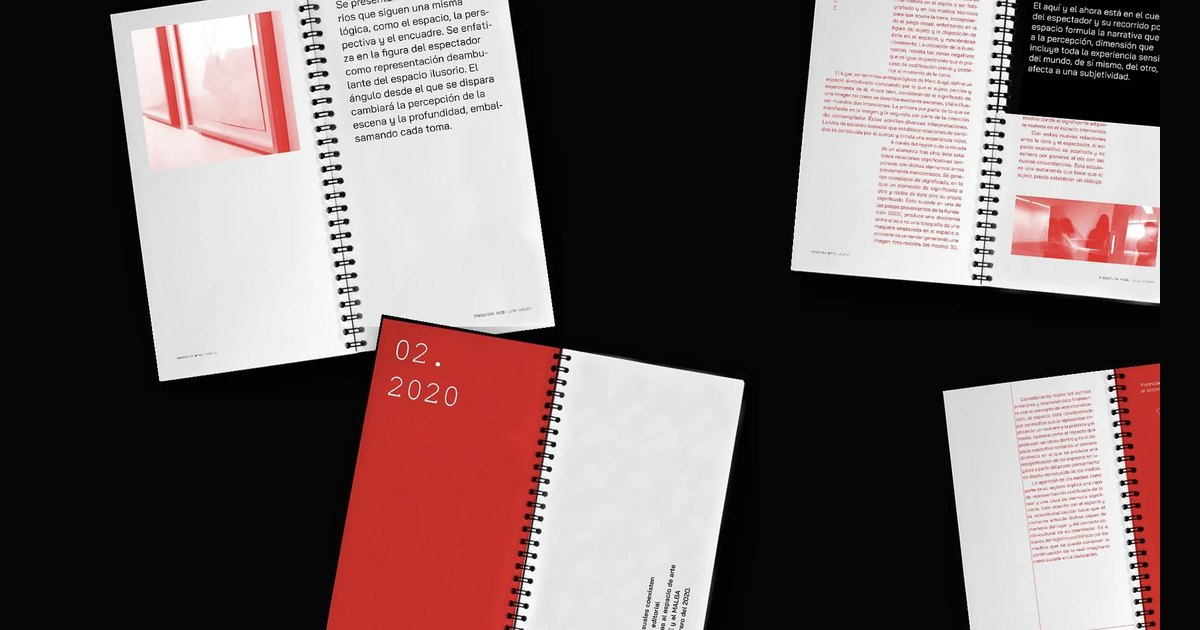
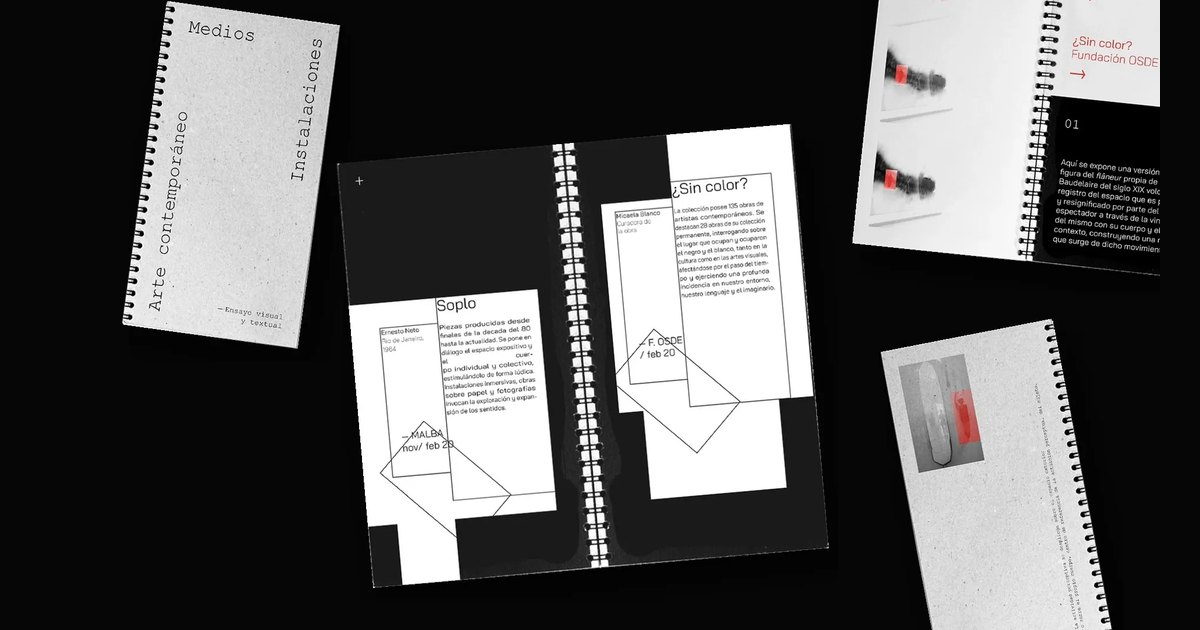
Selypan portada, Oficina Inglesa ficha, Ensayo slides 2-3 y portada, Faré 2021
Claude-Session: https://claude.ai/code/session_01XWbityn77Q1CNZPKqtjv3s

diff --git a/proyectos/oficina-inglesa.html b/proyectos/oficina-inglesa.html
@@ -5,9 +5,9 @@
 <base href="/">
 <meta name="viewport" content="width=device-width, initial-scale=1">
 <title>Oficina Inglesa — Rebranding | Noelia Orona</title>
-<meta name="description" content="Taller de muebles hechos a mano en Londres, con una larga trayectoria. Actualizar la marca conservando el escudo y los dos leones que sus clientes ya…">
+<meta name="description" content="Marca reconocida de muebles hechos a mano en Londres, con una larga trayectoria. Actualizar la marca conservando el escudo y los dos leones que sus clientes…">
 <meta property="og:title" content="Oficina Inglesa — Rebranding | Noelia Orona">
-<meta property="og:description" content="Taller de muebles hechos a mano en Londres, con una larga trayectoria. Actualizar la marca conservando el escudo y los dos leones que sus clientes ya…">
+<meta property="og:description" content="Marca reconocida de muebles hechos a mano en Londres, con una larga trayectoria. Actualizar la marca conservando el escudo y los dos leones que sus clientes…">
 <meta property="og:type" content="website">
 <meta property="og:site_name" content="Noelia Orona">
 <meta property="og:locale" content="es_AR">
@@ -19,7 +19,7 @@
 <meta property="og:image:alt" content="Oficina Inglesa — Rebranding | Noelia Orona">
 <meta name="twitter:image" content="https://noeliaorona.com/og/oficina-inglesa.jpg">
 <meta name="twitter:card" content="summary_large_image">
-<script type="application/ld+json">{"@context":"https://schema.org","@graph":[{"@type":"WebSite","@id":"https://noeliaorona.com/#web","url":"https://noeliaorona.com/","name":"Noelia Orona","inLanguage":["es","en"],"publisher":{"@id":"https://noeliaorona.com/#noelia"}},{"@type":"Person","@id":"https://noeliaorona.com/#noelia","name":"Noelia Orona","url":"https://noeliaorona.com/","jobTitle":"Diseñadora","description":"Diseñadora con base en Argentina. Identidad visual, diseño editorial, packaging y web.","image":"https://noeliaorona.com/assets/cc865a6dbeadcb29cce391f507c17738.webp","email":"mailto:nnorona15@gmail.com","address":{"@type":"PostalAddress","addressLocality":"Buenos Aires","addressCountry":"AR"},"sameAs":["https://www.linkedin.com/in/noelia-orona-093a19181/","https://www.behance.net/noeliaorona"]},{"@type":"CreativeWork","@id":"https://noeliaorona.com/proyectos/oficina-inglesa#work","url":"https://noeliaorona.com/proyectos/oficina-inglesa","name":"Oficina Inglesa","headline":"Oficina Inglesa","description":"Actualizar la marca conservando el escudo y los dos leones que sus clientes ya reconocen. El proceso fue en cuatro pasos: auditar, conservar, redibujar y simplificar. Se redibujaron la corona y los leones, el nombre pasó de tres líneas a una y la caligrafía dio lugar a una tipografía más limpia. Se sumó un patrón a partir de una pata torneada y una paleta bordó y dorado, aplicados en papelería, certificados, placas y web.","abstract":"Taller de muebles hechos a mano en Londres, con una larga trayectoria","genre":"Mobiliario artesanal","keywords":"Rebranding","inLanguage":"es","image":"https://noeliaorona.com/og/oficina-inglesa.jpg","creator":{"@id":"https://noeliaorona.com/#noelia"},"author":{"@id":"https://noeliaorona.com/#noelia"},"isPartOf":{"@id":"https://noeliaorona.com/proyectos#page"},"workTranslation":{"@type":"CreativeWork","inLanguage":"en","name":"Oficina Inglesa","description":"Updating the brand while keeping the shield and the two lions its clients already recognise. The process had four steps: audit, keep, redraw and simplify. The crown and lions were redrawn, the name went from three lines to one, and the script gave way to a cleaner typeface. We added a pattern based on a turned furniture leg and a burgundy and gold palette, applied to stationery, certificates, plaques and the website."},"dateCreated":"2021"},{"@type":"BreadcrumbList","itemListElement":[{"@type":"ListItem","position":1,"name":"Noelia Orona","item":"https://noeliaorona.com/"},{"@type":"ListItem","position":2,"name":"Proyectos","item":"https://noeliaorona.com/proyectos"},{"@type":"ListItem","position":3,"name":"Oficina Inglesa","item":"https://noeliaorona.com/proyectos/oficina-inglesa"}]}]}</script>
+<script type="application/ld+json">{"@context":"https://schema.org","@graph":[{"@type":"WebSite","@id":"https://noeliaorona.com/#web","url":"https://noeliaorona.com/","name":"Noelia Orona","inLanguage":["es","en"],"publisher":{"@id":"https://noeliaorona.com/#noelia"}},{"@type":"Person","@id":"https://noeliaorona.com/#noelia","name":"Noelia Orona","url":"https://noeliaorona.com/","jobTitle":"Diseñadora","description":"Diseñadora con base en Argentina. Identidad visual, diseño editorial, packaging y web.","image":"https://noeliaorona.com/assets/cc865a6dbeadcb29cce391f507c17738.webp","email":"mailto:nnorona15@gmail.com","address":{"@type":"PostalAddress","addressLocality":"Buenos Aires","addressCountry":"AR"},"sameAs":["https://www.linkedin.com/in/noelia-orona-093a19181/","https://www.behance.net/noeliaorona"]},{"@type":"CreativeWork","@id":"https://noeliaorona.com/proyectos/oficina-inglesa#work","url":"https://noeliaorona.com/proyectos/oficina-inglesa","name":"Oficina Inglesa","headline":"Oficina Inglesa","description":"Actualizar la marca conservando el escudo y los dos leones que sus clientes ya reconocen. El proceso fue en cuatro pasos: auditar, conservar, redibujar y simplificar. Se redibujaron la corona y los leones, el nombre pasó de tres líneas a una y la caligrafía dio lugar a una tipografía más limpia. Se sumó un patrón a partir de una pata torneada y una paleta bordó y dorado, aplicados en papelería, certificados, placas y web.","abstract":"Marca reconocida de muebles hechos a mano en Londres, con una larga trayectoria","genre":"Mobiliario artesanal","keywords":"Rebranding","inLanguage":"es","image":"https://noeliaorona.com/og/oficina-inglesa.jpg","creator":{"@id":"https://noeliaorona.com/#noelia"},"author":{"@id":"https://noeliaorona.com/#noelia"},"isPartOf":{"@id":"https://noeliaorona.com/proyectos#page"},"workTranslation":{"@type":"CreativeWork","inLanguage":"en","name":"Oficina Inglesa","description":"Updating the brand while keeping the shield and the two lions its clients already recognise. The process had four steps: audit, keep, redraw and simplify. The crown and lions were redrawn, the name went from three lines to one, and the script gave way to a cleaner typeface. We added a pattern based on a turned furniture leg and a burgundy and gold palette, applied to stationery, certificates, plaques and the website."},"dateCreated":"2021"},{"@type":"BreadcrumbList","itemListElement":[{"@type":"ListItem","position":1,"name":"Noelia Orona","item":"https://noeliaorona.com/"},{"@type":"ListItem","position":2,"name":"Proyectos","item":"https://noeliaorona.com/proyectos"},{"@type":"ListItem","position":3,"name":"Oficina Inglesa","item":"https://noeliaorona.com/proyectos/oficina-inglesa"}]}]}</script>
 <link rel="canonical" href="https://noeliaorona.com/proyectos/oficina-inglesa">
 <meta name="theme-color" content="#ffffff">
 <meta name="color-scheme" content="light">

diff --git a/logic.js b/logic.js
@@ -143,7 +143,7 @@ class Component extends DCLogic {
         year: '2026',
         info: { es: { client: 'Hotel boutique en Mazatlán, México', challenge: 'El hotel arrancaba de cero. Había que construir una marca propia, distinta a la de los resorts de la zona, que transmitiera un lujo tranquilo y cercano.', solution: 'Primero se definió la estrategia de marca. A partir de ahí se diseñó un símbolo que junta mar y tierra, una paleta de piedra y oliva y una tipografía fina. Después se aplicó a todo lo que toca el huésped: amenities, packaging, papelería, señalética, menús y web.' }, en: { client: 'A boutique hotel in Mazatlán, Mexico', challenge: 'The hotel was starting from scratch. It needed a brand of its own, distinct from the resorts in the area, conveying a quiet, warm kind of luxury.', solution: 'We started by defining the brand strategy. From there we designed a symbol that brings sea and land together, a stone and olive palette and a light typeface, and applied it to everything guests touch: amenities, packaging, stationery, signage, menus and the website.' } },
         images: [
-          'assets/a4628f1d0e9bf71a7fbefb4b6e24d220.webp',
+          'assets/f595cfed0f48e870e0a3f67d5b122d83.webp',
           'assets/5c3d695843c229afa5152d5f636bd044.webp',
           'assets/e2960cda418a0b294daa85c6e2042779.webp',
           'assets/57ccf7958567f97fcff70dec4a059a22.webp',
@@ -353,7 +353,7 @@ class Component extends DCLogic {
         title: 'Faré Mobiliario',
         industry: { es: 'Interiorismo', en: 'Interior Design' },
         categories: { es: 'Diseño editorial, Web', en: 'Editorial Design, Web' },
-        year: '2026',
+        year: '2021',
         info: { es: { client: 'Estudio de diseño de muebles e interiorismo', challenge: 'Mostrar la colección con el mismo cuidado que tiene cada mueble, en papel y en pantalla.', solution: 'Se diseñó una revista impresa para presentar las piezas y una landing que lleva esa misma experiencia a la web.' }, en: { client: 'A furniture design and interiors studio', challenge: 'Showing the collection with the same care that goes into each piece, both in print and on screen.', solution: 'We designed a printed magazine to present the pieces and a landing page that brings the same experience online.' } },
         images: [
           'assets/4b62aaadefa8ad0b9d44a9948bea1234.webp', 'assets/c46c63f21ecf6cf08209dce6e3f81e4f.webp', 'assets/248e75c81beb3bc783fba2f8796b95ca.webp',
@@ -365,7 +365,7 @@ class Component extends DCLogic {
         industry: { es: 'Mobiliario artesanal', en: 'Handmade Furniture' },
         categories: { es: 'Rebranding', en: 'Rebranding' },
         year: '2021',
-        info: { es: { client: 'Taller de muebles hechos a mano en Londres, con una larga trayectoria', challenge: 'Actualizar la marca conservando el escudo y los dos leones que sus clientes ya reconocen.', solution: 'El proceso fue en cuatro pasos: auditar, conservar, redibujar y simplificar. Se redibujaron la corona y los leones, el nombre pasó de tres líneas a una y la caligrafía dio lugar a una tipografía más limpia. Se sumó un patrón a partir de una pata torneada y una paleta bordó y dorado, aplicados en papelería, certificados, placas y web.' }, en: { client: 'A handmade furniture workshop in London with a long history', challenge: 'Updating the brand while keeping the shield and the two lions its clients already recognise.', solution: 'The process had four steps: audit, keep, redraw and simplify. The crown and lions were redrawn, the name went from three lines to one, and the script gave way to a cleaner typeface. We added a pattern based on a turned furniture leg and a burgundy and gold palette, applied to stationery, certificates, plaques and the website.' } },
+        info: { es: { client: 'Marca reconocida de muebles hechos a mano en Londres, con una larga trayectoria', challenge: 'Actualizar la marca conservando el escudo y los dos leones que sus clientes ya reconocen.', solution: 'El proceso fue en cuatro pasos: auditar, conservar, redibujar y simplificar. Se redibujaron la corona y los leones, el nombre pasó de tres líneas a una y la caligrafía dio lugar a una tipografía más limpia. Se sumó un patrón a partir de una pata torneada y una paleta bordó y dorado, aplicados en papelería, certificados, placas y web.' }, en: { client: 'A renowned handmade furniture brand in London with a long history', challenge: 'Updating the brand while keeping the shield and the two lions its clients already recognise.', solution: 'The process had four steps: audit, keep, redraw and simplify. The crown and lions were redrawn, the name went from three lines to one, and the script gave way to a cleaner typeface. We added a pattern based on a turned furniture leg and a burgundy and gold palette, applied to stationery, certificates, plaques and the website.' } },
         images: [
           'assets/864903cee1e5df5bc74a7cf42b3c7740.webp',
           'assets/a77c7492aca20f2acb4a7e22cc973879.webp',
@@ -442,13 +442,13 @@ class Component extends DCLogic {
         year: '2020',
         info: { es: { client: 'Proyecto curatorial de arte contemporáneo', challenge: 'Llevar a un objeto impreso una reflexión sobre la mirada y la perspectiva.', solution: 'Se diseñó un cuaderno anillado para recorrer como un paseo, alternando imagen y texto para que la lectura también forme parte de la obra.' }, en: { client: 'A contemporary art curatorial project', challenge: 'Turning a reflection on looking and perspective into a printed object.', solution: 'We designed a ring-bound notebook meant to be browsed like a walk, alternating image and text so that reading becomes part of the work.' } },
         images: [
-          'assets/01d21df2080268368d9db990179e9e9e.webp',
-          'assets/3ea81644d38f8ea67169ee4396be1956.webp',
-          'assets/23c9234b6ad12a22ca3934ab8f36a37c.webp',
+          'assets/c952bf03cfbf297b81a084f73335716a.webp',
+          'assets/69ae4e63bab3c85d3db0336f39ed8d4a.webp',
+          'assets/68ff690bd505f0e7945b13f12a1d211c.webp',
           'assets/19179de8ba907c3bf9a98d01d0257a40.webp',
           'assets/ab133057b959e0aff84c9e518fd5d949.webp',
           'assets/91acd97c3deedcc0dbf5e9e529f40b4c.webp',
-          'assets/c952bf03cfbf297b81a084f73335716a.webp'
+          'assets/01d21df2080268368d9db990179e9e9e.webp'
         ]
       },
       {

diff --git a/src/page.html b/src/page.html
@@ -446,7 +446,7 @@ class Component extends DCLogic {
         year: '2026',
         info: { es: { client: 'Hotel boutique en Mazatlán, México', challenge: 'El hotel arrancaba de cero. Había que construir una marca propia, distinta a la de los resorts de la zona, que transmitiera un lujo tranquilo y cercano.', solution: 'Primero se definió la estrategia de marca. A partir de ahí se diseñó un símbolo que junta mar y tierra, una paleta de piedra y oliva y una tipografía fina. Después se aplicó a todo lo que toca el huésped: amenities, packaging, papelería, señalética, menús y web.' }, en: { client: 'A boutique hotel in Mazatlán, Mexico', challenge: 'The hotel was starting from scratch. It needed a brand of its own, distinct from the resorts in the area, conveying a quiet, warm kind of luxury.', solution: 'We started by defining the brand strategy. From there we designed a symbol that brings sea and land together, a stone and olive palette and a light typeface, and applied it to everything guests touch: amenities, packaging, stationery, signage, menus and the website.' } },
         images: [
-          'assets/a4628f1d0e9bf71a7fbefb4b6e24d220.webp',
+          'assets/f595cfed0f48e870e0a3f67d5b122d83.webp',
           'assets/5c3d695843c229afa5152d5f636bd044.webp',
           'assets/e2960cda418a0b294daa85c6e2042779.webp',
           'assets/57ccf7958567f97fcff70dec4a059a22.webp',
@@ -656,7 +656,7 @@ class Component extends DCLogic {
         title: 'Faré Mobiliario',
         industry: { es: 'Interiorismo', en: 'Interior Design' },
         categories: { es: 'Diseño editorial, Web', en: 'Editorial Design, Web' },
-        year: '2026',
+        year: '2021',
         info: { es: { client: 'Estudio de diseño de muebles e interiorismo', challenge: 'Mostrar la colección con el mismo cuidado que tiene cada mueble, en papel y en pantalla.', solution: 'Se diseñó una revista impresa para presentar las piezas y una landing que lleva esa misma experiencia a la web.' }, en: { client: 'A furniture design and interiors studio', challenge: 'Showing the collection with the same care that goes into each piece, both in print and on screen.', solution: 'We designed a printed magazine to present the pieces and a landing page that brings the same experience online.' } },
         images: [
           'assets/4b62aaadefa8ad0b9d44a9948bea1234.webp', 'assets/c46c63f21ecf6cf08209dce6e3f81e4f.webp', 'assets/248e75c81beb3bc783fba2f8796b95ca.webp',
@@ -668,7 +668,7 @@ class Component extends DCLogic {
         industry: { es: 'Mobiliario artesanal', en: 'Handmade Furniture' },
         categories: { es: 'Rebranding', en: 'Rebranding' },
         year: '2021',
-        info: { es: { client: 'Taller de muebles hechos a mano en Londres, con una larga trayectoria', challenge: 'Actualizar la marca conservando el escudo y los dos leones que sus clientes ya reconocen.', solution: 'El proceso fue en cuatro pasos: auditar, conservar, redibujar y simplificar. Se redibujaron la corona y los leones, el nombre pasó de tres líneas a una y la caligrafía dio lugar a una tipografía más limpia. Se sumó un patrón a partir de una pata torneada y una paleta bordó y dorado, aplicados en papelería, certificados, placas y web.' }, en: { client: 'A handmade furniture workshop in London with a long history', challenge: 'Updating the brand while keeping the shield and the two lions its clients already recognise.', solution: 'The process had four steps: audit, keep, redraw and simplify. The crown and lions were redrawn, the name went from three lines to one, and the script gave way to a cleaner typeface. We added a pattern based on a turned furniture leg and a burgundy and gold palette, applied to stationery, certificates, plaques and the website.' } },
+        info: { es: { client: 'Marca reconocida de muebles hechos a mano en Londres, con una larga trayectoria', challenge: 'Actualizar la marca conservando el escudo y los dos leones que sus clientes ya reconocen.', solution: 'El proceso fue en cuatro pasos: auditar, conservar, redibujar y simplificar. Se redibujaron la corona y los leones, el nombre pasó de tres líneas a una y la caligrafía dio lugar a una tipografía más limpia. Se sumó un patrón a partir de una pata torneada y una paleta bordó y dorado, aplicados en papelería, certificados, placas y web.' }, en: { client: 'A renowned handmade furniture brand in London with a long history', challenge: 'Updating the brand while keeping the shield and the two lions its clients already recognise.', solution: 'The process had four steps: audit, keep, redraw and simplify. The crown and lions were redrawn, the name went from three lines to one, and the script gave way to a cleaner typeface. We added a pattern based on a turned furniture leg and a burgundy and gold palette, applied to stationery, certificates, plaques and the website.' } },
         images: [
           'assets/864903cee1e5df5bc74a7cf42b3c7740.webp',
           'assets/a77c7492aca20f2acb4a7e22cc973879.webp',
@@ -745,13 +745,13 @@ class Component extends DCLogic {
         year: '2020',
         info: { es: { client: 'Proyecto curatorial de arte contemporáneo', challenge: 'Llevar a un objeto impreso una reflexión sobre la mirada y la perspectiva.', solution: 'Se diseñó un cuaderno anillado para recorrer como un paseo, alternando imagen y texto para que la lectura también forme parte de la obra.' }, en: { client: 'A contemporary art curatorial project', challenge: 'Turning a reflection on looking and perspective into a printed object.', solution: 'We designed a ring-bound notebook meant to be browsed like a walk, alternating image and text so that reading becomes part of the work.' } },
         images: [
-          'assets/01d21df2080268368d9db990179e9e9e.webp',
-          'assets/3ea81644d38f8ea67169ee4396be1956.webp',
-          'assets/23c9234b6ad12a22ca3934ab8f36a37c.webp',
+          'assets/c952bf03cfbf297b81a084f73335716a.webp',
+          'assets/69ae4e63bab3c85d3db0336f39ed8d4a.webp',
+          'assets/68ff690bd505f0e7945b13f12a1d211c.webp',
           'assets/19179de8ba907c3bf9a98d01d0257a40.webp',
           'assets/ab133057b959e0aff84c9e518fd5d949.webp',
           'assets/91acd97c3deedcc0dbf5e9e529f40b4c.webp',
-          'assets/c952bf03cfbf297b81a084f73335716a.webp'
+          'assets/01d21df2080268368d9db990179e9e9e.webp'
         ]
       },
       {

diff --git a/proyectos/fare-mobiliario.html b/proyectos/fare-mobiliario.html
@@ -19,7 +19,7 @@
 <meta property="og:image:alt" content="Faré Mobiliario — Diseño editorial | Noelia Orona">
 <meta name="twitter:image" content="https://noeliaorona.com/og/fare-mobiliario.jpg">
 <meta name="twitter:card" content="summary_large_image">
-<script type="application/ld+json">{"@context":"https://schema.org","@graph":[{"@type":"WebSite","@id":"https://noeliaorona.com/#web","url":"https://noeliaorona.com/","name":"Noelia Orona","inLanguage":["es","en"],"publisher":{"@id":"https://noeliaorona.com/#noelia"}},{"@type":"Person","@id":"https://noeliaorona.com/#noelia","name":"Noelia Orona","url":"https://noeliaorona.com/","jobTitle":"Diseñadora","description":"Diseñadora con base en Argentina. Identidad visual, diseño editorial, packaging y web.","image":"https://noeliaorona.com/assets/cc865a6dbeadcb29cce391f507c17738.webp","email":"mailto:nnorona15@gmail.com","address":{"@type":"PostalAddress","addressLocality":"Buenos Aires","addressCountry":"AR"},"sameAs":["https://www.linkedin.com/in/noelia-orona-093a19181/","https://www.behance.net/noeliaorona"]},{"@type":"CreativeWork","@id":"https://noeliaorona.com/proyectos/fare-mobiliario#work","url":"https://noeliaorona.com/proyectos/fare-mobiliario","name":"Faré Mobiliario","headline":"Faré Mobiliario","description":"Mostrar la colección con el mismo cuidado que tiene cada mueble, en papel y en pantalla. Se diseñó una revista impresa para presentar las piezas y una landing que lleva esa misma experiencia a la web.","abstract":"Estudio de diseño de muebles e interiorismo","genre":"Interiorismo","keywords":"Diseño editorial, Web","inLanguage":"es","image":"https://noeliaorona.com/og/fare-mobiliario.jpg","creator":{"@id":"https://noeliaorona.com/#noelia"},"author":{"@id":"https://noeliaorona.com/#noelia"},"isPartOf":{"@id":"https://noeliaorona.com/proyectos#page"},"workTranslation":{"@type":"CreativeWork","inLanguage":"en","name":"Faré Mobiliario","description":"Showing the collection with the same care that goes into each piece, both in print and on screen. We designed a printed magazine to present the pieces and a landing page that brings the same experience online."},"dateCreated":"2026"},{"@type":"BreadcrumbList","itemListElement":[{"@type":"ListItem","position":1,"name":"Noelia Orona","item":"https://noeliaorona.com/"},{"@type":"ListItem","position":2,"name":"Proyectos","item":"https://noeliaorona.com/proyectos"},{"@type":"ListItem","position":3,"name":"Faré Mobiliario","item":"https://noeliaorona.com/proyectos/fare-mobiliario"}]}]}</script>
+<script type="application/ld+json">{"@context":"https://schema.org","@graph":[{"@type":"WebSite","@id":"https://noeliaorona.com/#web","url":"https://noeliaorona.com/","name":"Noelia Orona","inLanguage":["es","en"],"publisher":{"@id":"https://noeliaorona.com/#noelia"}},{"@type":"Person","@id":"https://noeliaorona.com/#noelia","name":"Noelia Orona","url":"https://noeliaorona.com/","jobTitle":"Diseñadora","description":"Diseñadora con base en Argentina. Identidad visual, diseño editorial, packaging y web.","image":"https://noeliaorona.com/assets/cc865a6dbeadcb29cce391f507c17738.webp","email":"mailto:nnorona15@gmail.com","address":{"@type":"PostalAddress","addressLocality":"Buenos Aires","addressCountry":"AR"},"sameAs":["https://www.linkedin.com/in/noelia-orona-093a19181/","https://www.behance.net/noeliaorona"]},{"@type":"CreativeWork","@id":"https://noeliaorona.com/proyectos/fare-mobiliario#work","url":"https://noeliaorona.com/proyectos/fare-mobiliario","name":"Faré Mobiliario","headline":"Faré Mobiliario","description":"Mostrar la colección con el mismo cuidado que tiene cada mueble, en papel y en pantalla. Se diseñó una revista impresa para presentar las piezas y una landing que lleva esa misma experiencia a la web.","abstract":"Estudio de diseño de muebles e interiorismo","genre":"Interiorismo","keywords":"Diseño editorial, Web","inLanguage":"es","image":"https://noeliaorona.com/og/fare-mobiliario.jpg","creator":{"@id":"https://noeliaorona.com/#noelia"},"author":{"@id":"https://noeliaorona.com/#noelia"},"isPartOf":{"@id":"https://noeliaorona.com/proyectos#page"},"workTranslation":{"@type":"CreativeWork","inLanguage":"en","name":"Faré Mobiliario","description":"Showing the collection with the same care that goes into each piece, both in print and on screen. We designed a printed magazine to present the pieces and a landing page that brings the same experience online."},"dateCreated":"2021"},{"@type":"BreadcrumbList","itemListElement":[{"@type":"ListItem","position":1,"name":"Noelia Orona","item":"https://noeliaorona.com/"},{"@type":"ListItem","position":2,"name":"Proyectos","item":"https://noeliaorona.com/proyectos"},{"@type":"ListItem","position":3,"name":"Faré Mobiliario","item":"https://noeliaorona.com/proyectos/fare-mobiliario"}]}]}</script>
 <link rel="canonical" href="https://noeliaorona.com/proyectos/fare-mobiliario">
 <meta name="theme-color" content="#ffffff">
 <meta name="color-scheme" content="light">
